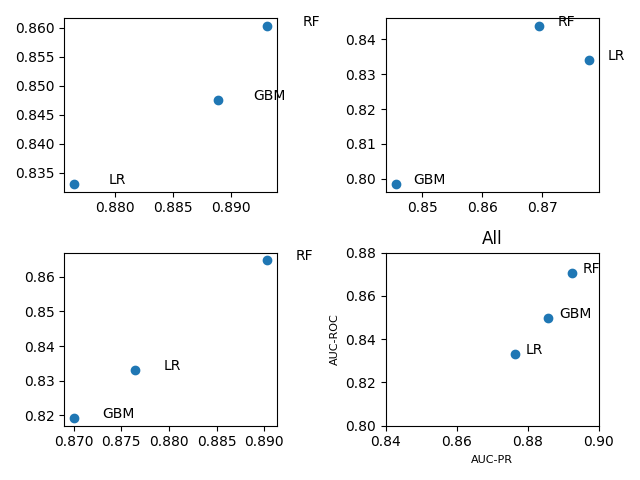
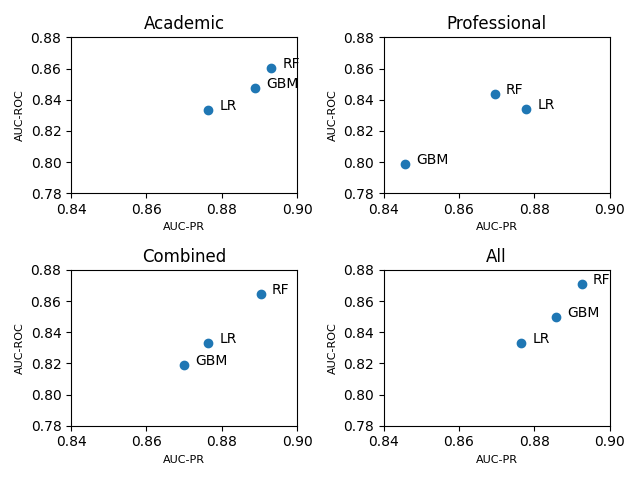
Fixed AUC plots

diff --git a/resexpl.py b/resexpl.py
@@ -18,7 +18,7 @@ def resexpl():
     mpl.rc('ytick', labelsize=8)
     for (set, name) in [(acad_data, "Academic"), (prof_data, "Professional"), (comb_data, "Combined"), (all_data, "All")]:
         data = set.transpose()
-        # plt.subplot(2, 2, i)
+        plt.subplot(2, 2, i)
         x = set.loc["PR-AUC", :].dropna()
         y = set.loc["ROC-AUC", :].dropna()
         labels = set.columns
@@ -26,7 +26,7 @@ def resexpl():
         plt.xlabel("AUC-PR", fontsize=8)
         plt.ylabel("AUC-ROC", fontsize=8)
         plt.xticks(np.arange(0.84, 0.91, 0.02))
-        plt.yticks(np.arange(0.80, 0.89, 0.02))
+        plt.yticks(np.arange(0.78, 0.89, 0.02))
         for label in labels:
             point = (set.loc["PR-AUC", label], set.loc["ROC-AUC", label])
             coords = (set.loc["PR-AUC", label] + 0.003, set.loc["ROC-AUC", label])
